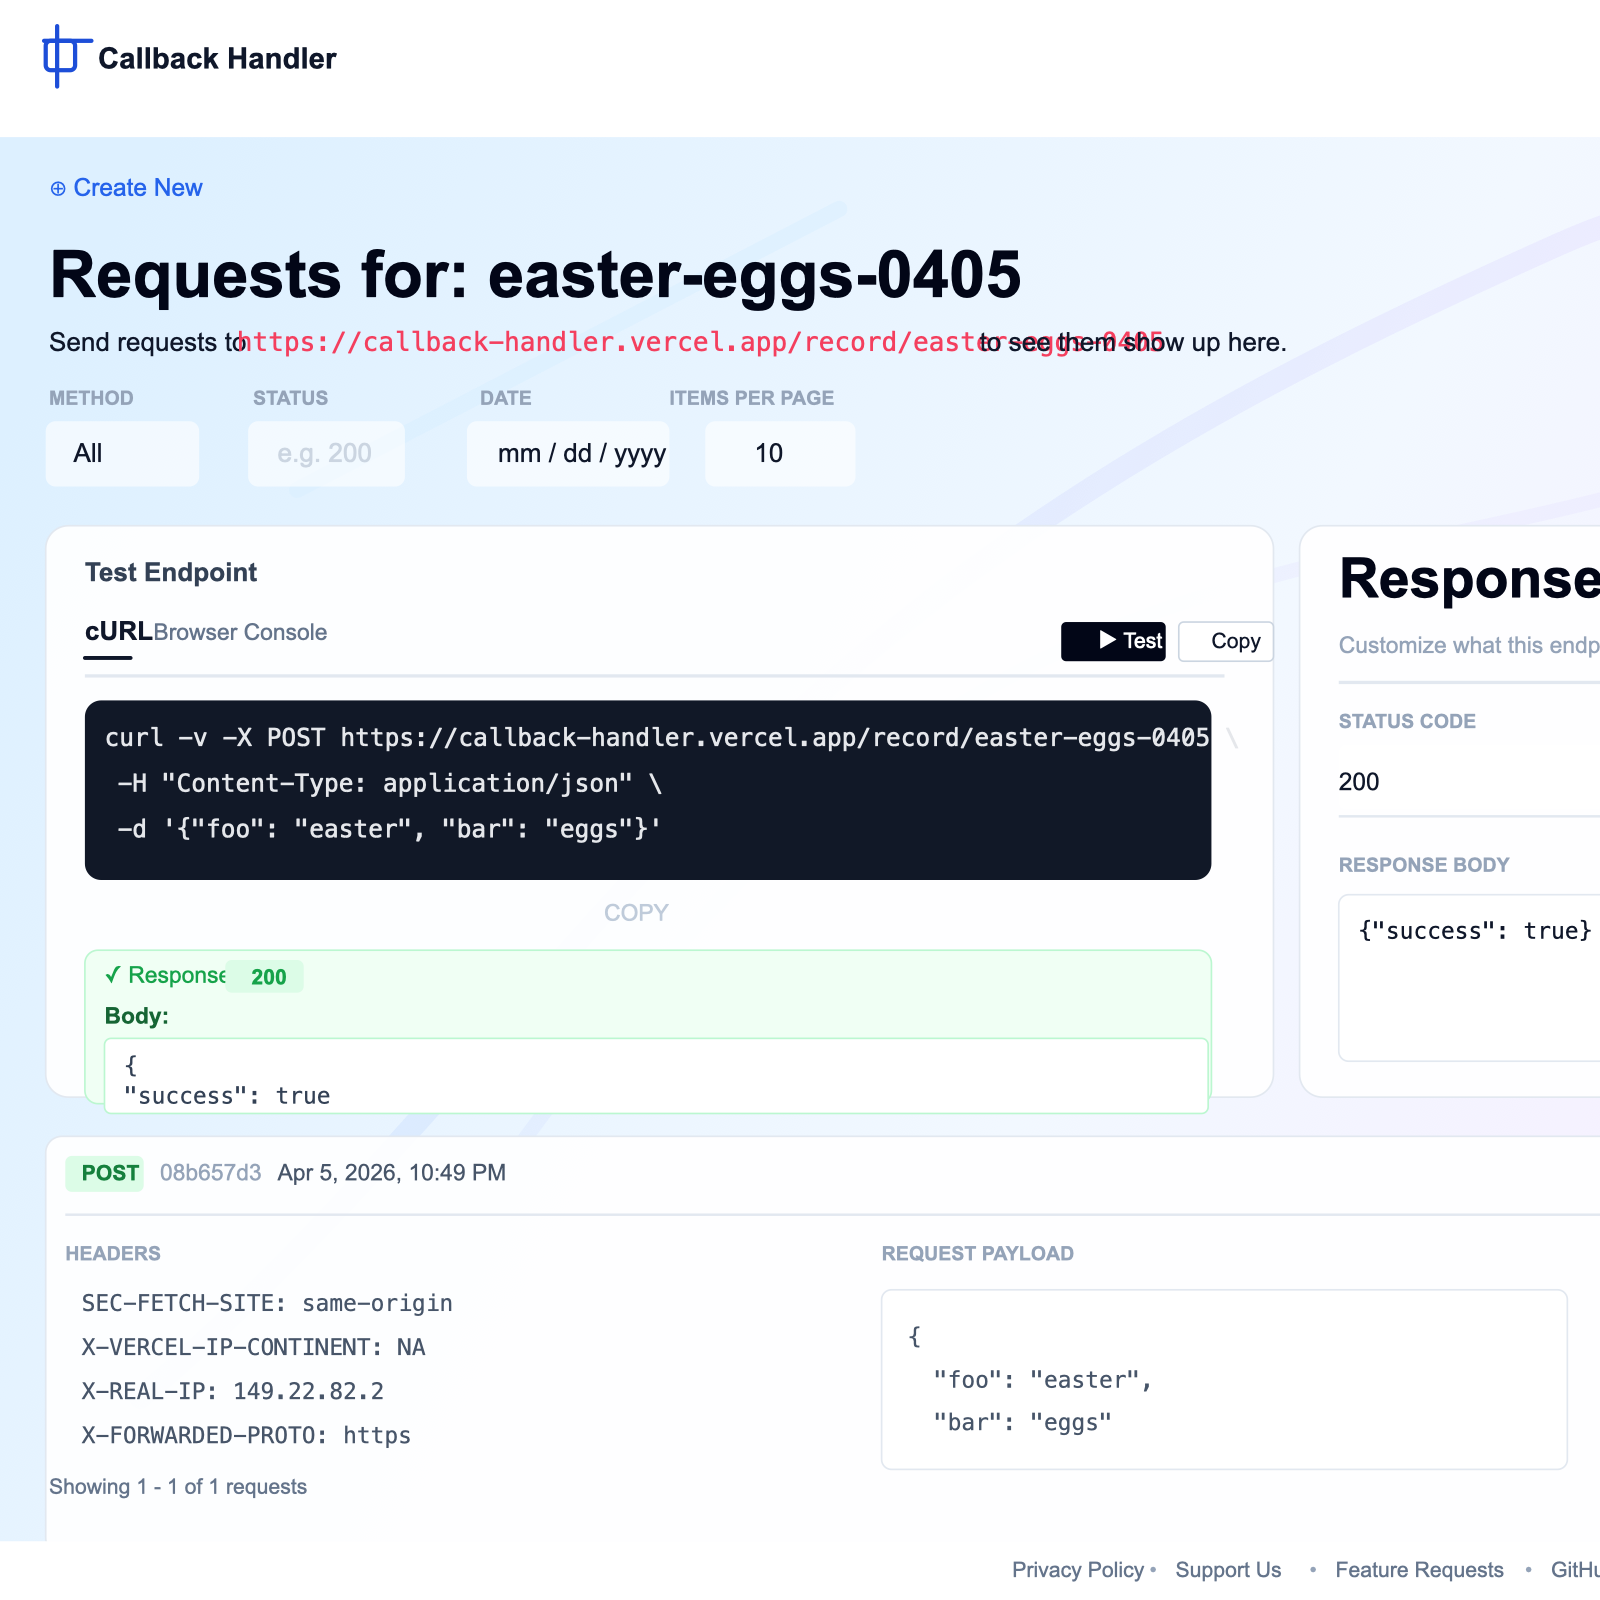
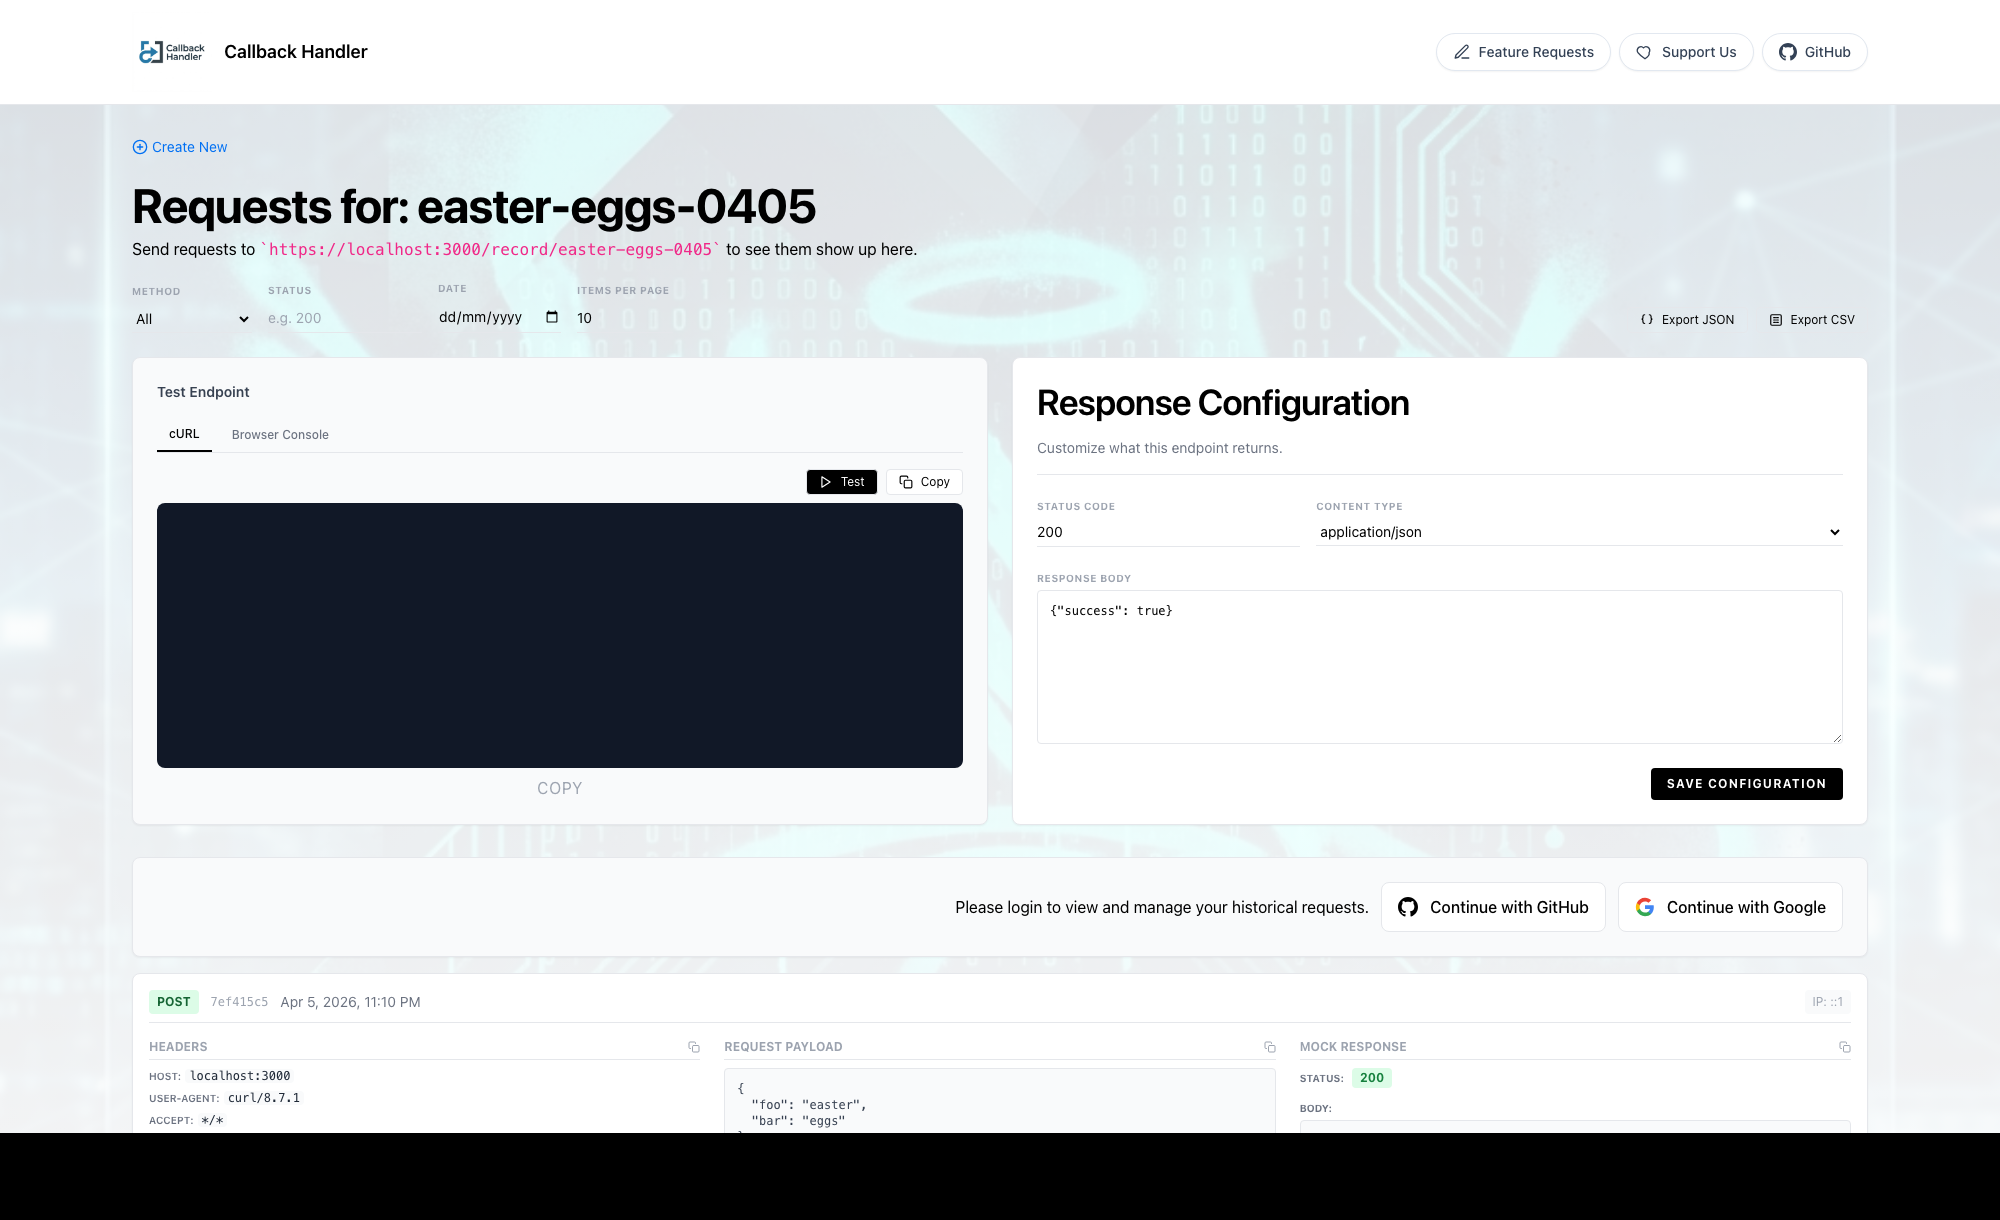
docs(readme): replace walkthrough images with real png captures
Retake the README screenshots from the live local app, switch the guide to PNG-only assets, remove the older SVG illustrations, and use a real public support-page capture instead of the synthetic dashboard visual.

diff --git a/README.md b/README.md
@@ -30,9 +30,9 @@ Live service:
 
 ![Request viewer overview](docs-assets/readme-record.png)
 
-### Dashboard
+### Support
 
-![Dashboard overview](docs-assets/readme-dashboard.png)
+![Support overview](docs-assets/readme-support.png)
 
 ### Feature Requests
 
